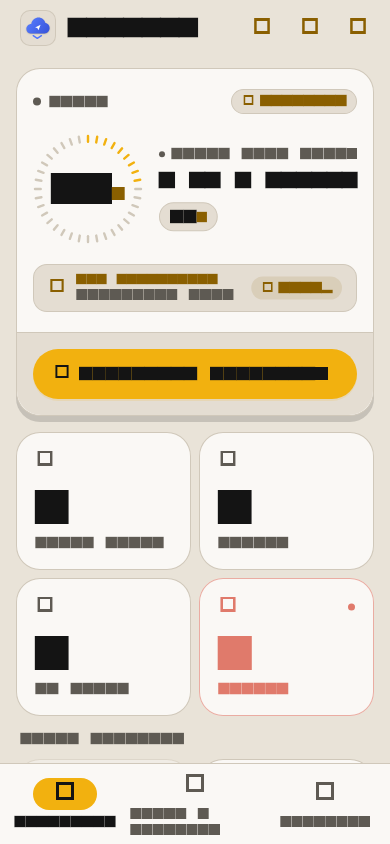
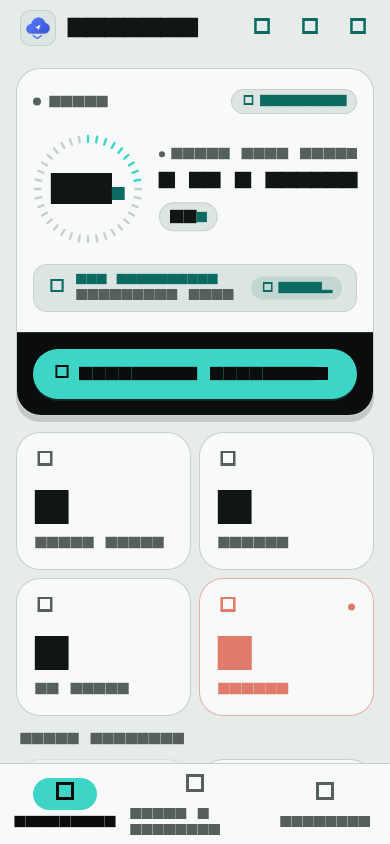
feat(theme): apply teal and lime color tokens with light-mode inverse CTA panel

diff --git a/valtsky_flutter/lib/util/theme.dart b/valtsky_flutter/lib/util/theme.dart
@@ -5,30 +5,32 @@ import 'package:flutter/material.dart';
 /// elevations, and geometric radii across Dark and Light modes.
 class ValtSkyTheme {
   // ─── DARK PALETTE TOKENS ──────────────────────────────────────────────────
-  static const Color darkCanvas = Color(0xFF0B0B0C);
-  static const Color darkSurface = Color(0xFF151516);
-  static const Color darkRaised = Color(0xFF1E1E20);
-  static const Color darkHairline = Color(0xFF2A2A2D);
-  static const Color darkTextPrimary = Color(0xFFF5F2EC);
-  static const Color darkTextSecondary = Color(0xFF9A968E);
+  static const Color darkCanvas = Color(0xFF0B0C0C);
+  static const Color darkSurface = Color(0xFF141616);
+  static const Color darkRaised = Color(0xFF1D2020);
+  static const Color darkHairline = Color(0xFF2A2E2E);
+  static const Color darkTextPrimary = Color(0xFFF2F5F4);
+  static const Color darkTextSecondary = Color(0xFF98A09E);
 
   // ─── LIGHT PALETTE TOKENS ─────────────────────────────────────────────────
-  static const Color lightCanvas = Color(0xFFE9E3D8);
-  static const Color lightSurface = Color(0xFFFAF8F5);
-  static const Color lightRaised = Color(0xFFE4DDD2);
-  static const Color lightHairline = Color(0xFFD0C8BA);
-  static const Color lightTextPrimary = Color(0xFF141414);
-  static const Color lightTextSecondary = Color(0xFF5E5A53);
+  static const Color lightCanvas = Color(0xFFE6ECEA);
+  static const Color lightSurface = Color(0xFFF7FAF9);
+  static const Color lightRaised = Color(0xFFDDE5E2);
+  static const Color lightHairline = Color(0xFFC6D0CD);
+  static const Color lightTextPrimary = Color(0xFF111514);
+  static const Color lightTextSecondary = Color(0xFF55605D);
 
   // ─── ACCENT & INK TOKENS ──────────────────────────────────────────────────
-  static const Color amber = Color(0xFFF2B10F);
-  static const Color ink = Color(0xFF141414);
-  static const Color lightAmberText = Color(0xFF8A5F00); // Accessible contrast (> 5.3:1) on cream surfaces
+  static const Color accentColor = Color(0xFF3DD6C6);
+  static const Color amber = accentColor; // Alias for backward compatibility
+  static const Color ink = Color(0xFF0B0C0C);
+  static const Color lightAccentText = Color(0xFF0B6B63); // Accessible teal text/icon (> 5.3:1)
+  static const Color lightAmberText = lightAccentText; // Alias for backward compatibility
 
   // ─── STATUS TOKENS ────────────────────────────────────────────────────────
-  static const Color statusSynced = Color(0xFF8FB996);
-  static const Color statusFailed = Color(0xFFE07A6B);
-  static const Color statusInFlight = Color(0xFFF2B10F);
+  static const Color statusSynced = Color(0xFFA3D977); // Lime: does not blur with teal
+  static const Color statusFailed = Color(0xFFE07A6B); // Coral
+  static const Color statusInFlight = accentColor;     // In-flight = accent (#3DD6C6)
 
   // Semantic & compatibility mappings
   static const Color error = statusFailed;
@@ -67,14 +69,19 @@ class ValtSkyTheme {
   static Color textPrimary(bool isDark) => isDark ? darkTextPrimary : lightTextPrimary;
   static Color textSecondary(bool isDark) => isDark ? darkTextSecondary : lightTextSecondary;
 
-  /// Primary accent color:
-  /// For fills/rings/buttons: Amber (#F2B10F).
-  static Color accent(bool isDark) => amber;
+  /// Primary accent color: #3DD6C6 (teal)
+  /// For fills/rings/buttons/active states.
+  static Color accent(bool isDark) => accentColor;
 
   /// Accessible text/icon accent color on surfaces:
-  /// In Dark mode: Amber (#F2B10F, 9.7:1).
-  /// In Light mode: Deep Amber (#8A5F00, 5.3:1).
-  static Color accentText(bool isDark) => isDark ? amber : lightAmberText;
+  /// In Dark mode: Teal (#3DD6C6, 9.7:1).
+  /// In Light mode: Deep Teal (#0B6B63, > 5.3:1).
+  static Color accentText(bool isDark) => isDark ? accentColor : lightAccentText;
+
+  /// CTA panel background:
+  /// In Dark mode: darkRaised (#1D2020).
+  /// In Light mode: inverse ink (#0B0C0C) with cream text and teal button.
+  static Color ctaPanelBackground(bool isDark) => isDark ? darkRaised : ink;
 
   // Backward-compatible accessors
   static Color primary(bool isDark) => accent(isDark);

diff --git a/valtsky_flutter/lib/ui/widgets/vault_storage_card.dart b/valtsky_flutter/lib/ui/widgets/vault_storage_card.dart
@@ -370,9 +370,12 @@ class VaultStorageCard extends StatelessWidget {
               // ─── BOTTOM CTA SHEET PANEL (SIGNATURE CUT-OUT JUNCTION) ────────
               Container(
                 decoration: BoxDecoration(
-                  color: isDark ? ValtSkyTheme.darkRaised : ValtSkyTheme.lightRaised,
+                  color: ValtSkyTheme.ctaPanelBackground(isDark),
                   border: Border(
-                    top: BorderSide(color: borderColor, width: 1.0),
+                    top: BorderSide(
+                      color: isDark ? borderColor : ValtSkyTheme.darkHairline,
+                      width: 1.0,
+                    ),
                   ),
                 ),
                 padding: EdgeInsets.symmetric(

diff --git a/valtsky_flutter/test/generate_screenshots_test.dart b/valtsky_flutter/test/generate_screenshots_test.dart
@@ -64,7 +64,11 @@ void main() {
       final image = await boundary.toImage(pixelRatio: 1.0);
       final byteData = await image.toByteData(format: ui.ImageByteFormat.png);
       final bytes = byteData!.buffer.asUint8List();
-      final file = File('/home/aditya/Desktop/valtsky/docs/redesign/$filename');
+      final targetDir = Directory('../docs/redesign').existsSync()
+          ? Directory('../docs/redesign')
+          : Directory('docs/redesign');
+      if (!targetDir.existsSync()) targetDir.createSync(recursive: true);
+      final file = File('${targetDir.path}/$filename');
       await file.writeAsBytes(bytes);
     });
   }

diff --git a/valtsky_flutter/lib/ui/widgets/valtsky_components.dart b/valtsky_flutter/lib/ui/widgets/valtsky_components.dart
@@ -244,8 +244,8 @@ class _PillButtonState extends State<PillButton> {
     switch (widget.variant) {
       case PillButtonVariant.primary:
         bg = isEnabled
-            ? (_isPressed ? const Color(0xFFD99E0B) : ValtSkyTheme.amber)
-            : ValtSkyTheme.amber.withValues(alpha: 0.40);
+            ? (_isPressed ? const Color(0xFF2EBEAF) : ValtSkyTheme.accentColor)
+            : ValtSkyTheme.accentColor.withValues(alpha: 0.40);
         fg = ValtSkyTheme.ink;
         break;
       case PillButtonVariant.secondary:
